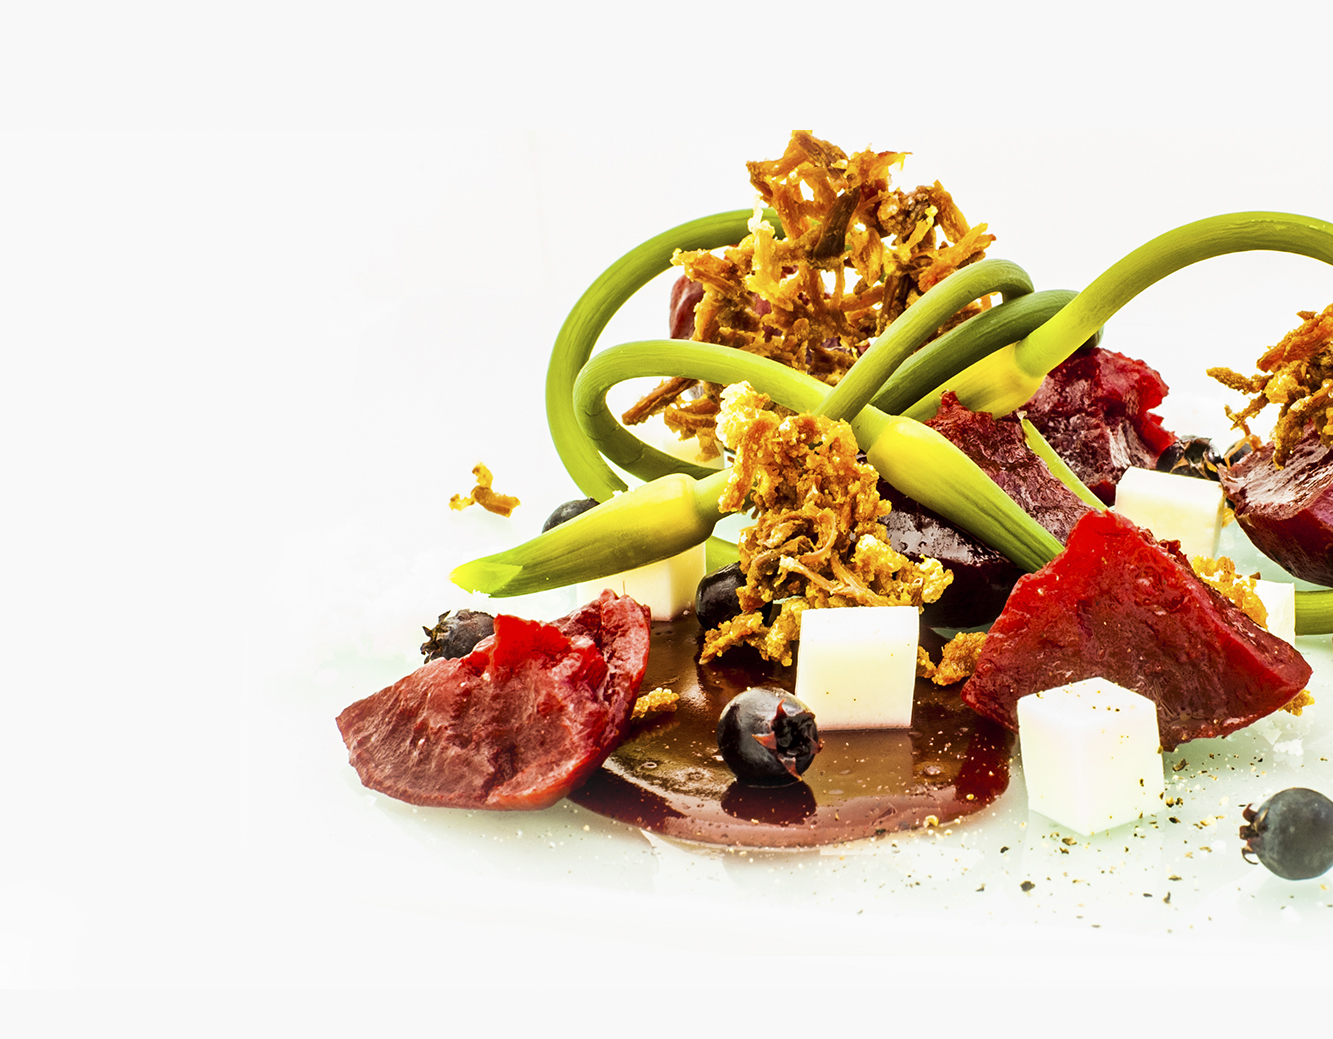
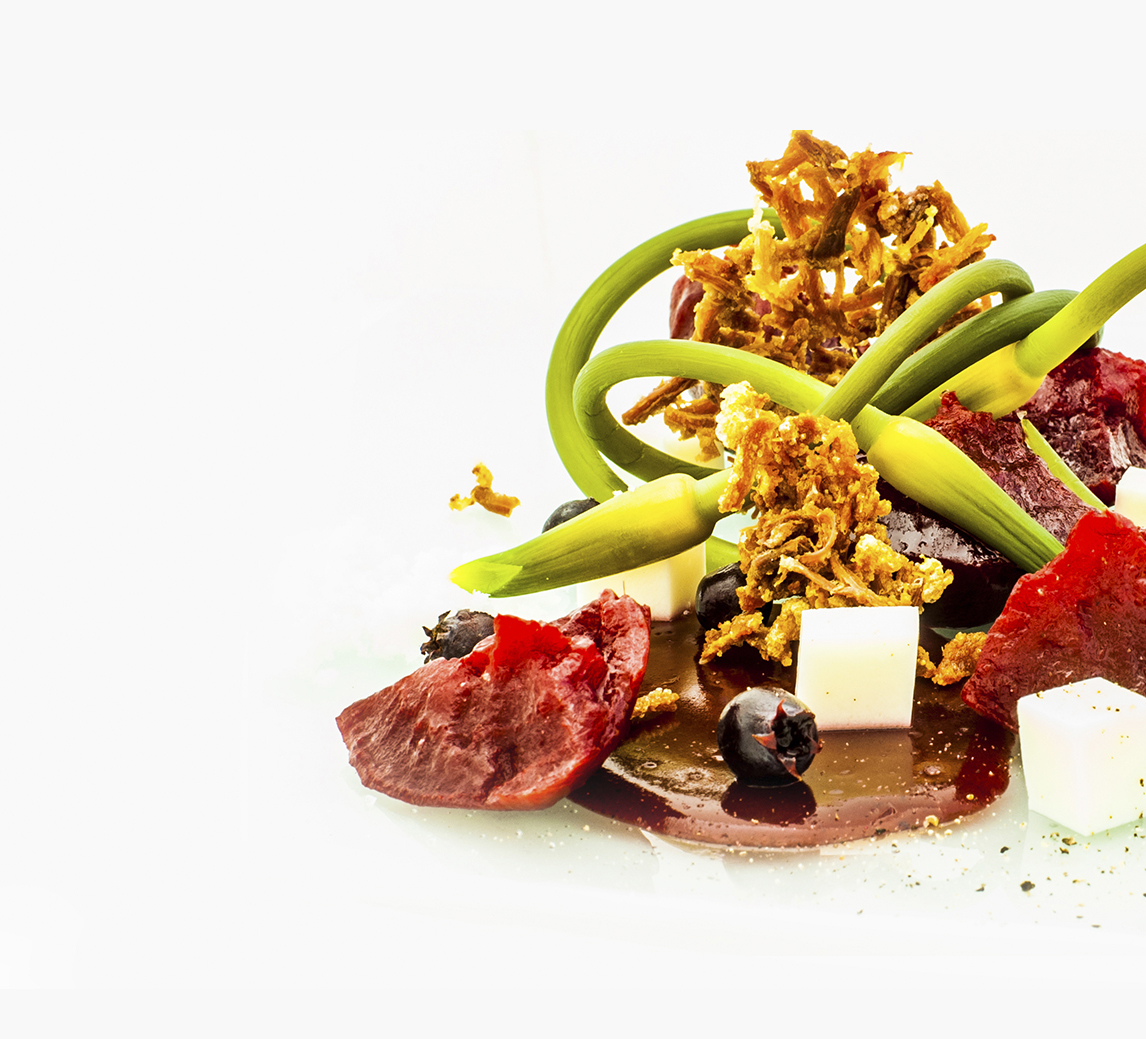
Changed background image save cross line, thin menu for small device. #vf-11

diff --git a/app/assets/stylesheets/global/layout.css.sass b/app/assets/stylesheets/global/layout.css.sass
@@ -65,7 +65,14 @@ html, body
         &.active
           background-color: #f9f9f9
           color: hsl(0, 1%, 31%)
-
+    
+@media (max-width: 1024px)
+  #header
+    ul.main_menu
+      li
+        a
+          padding: 30px 10px
+  
 #footer
   background-color: hsl(0, 1%, 31%)
   bottom: 0
@@ -80,7 +87,9 @@ html, body
     margin-top: 18px
 
 body.welcome
-  background: image-url('background/main.jpg') right center no-repeat
+  background-image: image-url('background/main.jpg')
+  background-position: right center
+  background-repeat: no-repeat
   background-size: contain
 
 body.consulting

diff --git a/app/assets/stylesheets/application.css.scss b/app/assets/stylesheets/application.css.scss
@@ -6,6 +6,7 @@
 
 body
 {
+  min-width: 992px;
   background-color: #f9f9f9;
   color: white;
   font-family: geometria_light, "Helvetica Neue", Helvetica, Arial, sans-serif;
